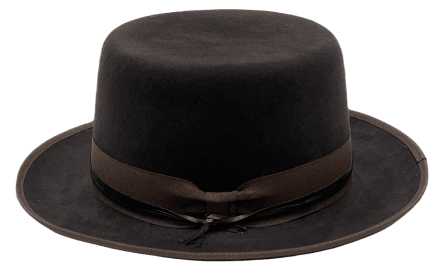
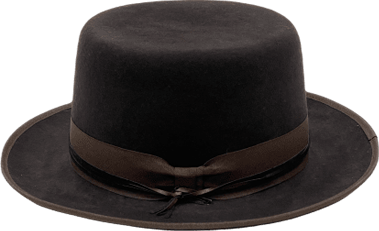
added new mages and some paddingTop

Changed region(s): [[0.0, 0.0, 1.0, 1.0], [0.5805, 0.6061, 0.6966, 0.6667], [0.4644, 0.2121, 0.6095, 0.2424]]

diff --git a/data/index.ts b/data/index.ts
@@ -37,7 +37,7 @@ export const products: Product[] = [
     id: 'e1',
   },
   {
-    image: '../images/bowler.jpeg',
+    image: '../images/bowler.png',
     title: 'Bowler Hat',
     shortDescription: 'Bowler Hat, description',
     description:
@@ -72,7 +72,7 @@ export const products: Product[] = [
     id: 'f4',
   },
   {
-    image: '../images/outback.jpeg',
+    image: '../images/outback.png',
     title: 'Outback',
     shortDescription: 'Outback, description',
     description:
@@ -89,7 +89,7 @@ export const products: Product[] = [
     id: 'c1',
   },
   {
-    image: '../images/stockman.jpeg',
+    image: '../images/stockman.png',
     title: 'Stockman',
     shortDescription: 'Stockman. description',
     description:
@@ -105,7 +105,7 @@ export const products: Product[] = [
     id: 'e6',
   },
   {
-    image: '../images/straw.jpeg',
+    image: '../images/straw.png',
     title: 'Straw Hat',
     shortDescription: 'Straw hat. description',
     description:
@@ -122,7 +122,7 @@ export const products: Product[] = [
     id: 'a3',
   },
   {
-    image: '../images/western.jpg',
+    image: '../images/western.png',
     title: 'Western Hat',
     shortDescription: 'Western hat. description',
     description:
@@ -138,7 +138,7 @@ export const products: Product[] = [
     id: 'a2',
   },
   {
-    image: '../images/tophat.jpeg',
+    image: '../images/tophat.png',
     title: 'Top Hat',
     shortDescription: 'Top hat. description',
     description:
@@ -156,7 +156,7 @@ export const products: Product[] = [
     id: 'a1',
   },
   {
-    image: '../images/trilby.jpeg',
+    image: '../images/trilby.png',
     title: 'Trilby Hat',
     shortDescription: 'Trilby hat. description',
     description:
@@ -175,7 +175,7 @@ export const products: Product[] = [
     id: 'a8',
   },
   {
-    image: '../images/woolfelt.jpg',
+    image: '../images/woolfelt.png',
     title: 'Woolfelt Hat',
     shortDescription: 'Woolfelt hat. description',
     description:
@@ -192,7 +192,7 @@ export const products: Product[] = [
     id: 'a4',
   },
   {
-    image: '../images/fedora.jpeg',
+    image: '../images/fedora.png',
     title: 'Fedora Hat',
     shortDescription: 'Fedora hat. description',
     description:
@@ -209,7 +209,7 @@ export const products: Product[] = [
     id: 'a7',
   },
   {
-    image: '../images/stoutmoss.jpeg',
+    image: '../images/stoutmoss.png',
     title: 'Stout Hat',
     shortDescription: 'Stout hat. description',
     description:

diff --git a/src/components/ProductCard.tsx b/src/components/ProductCard.tsx
@@ -51,6 +51,7 @@ export default function ProductCard({ product }: Props) {
 
 const imageStyle: SxProps<Theme> = theme => ({
   objectFit: 'contain',
+  paddingTop: '1rem',
 })
 const cardStyle: SxProps<Theme> = theme => ({
   minWidth: 240,
